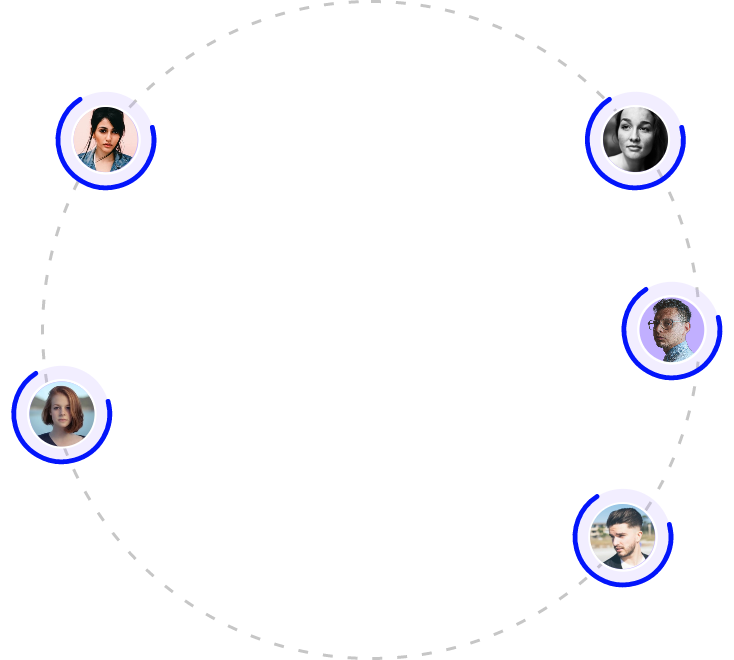
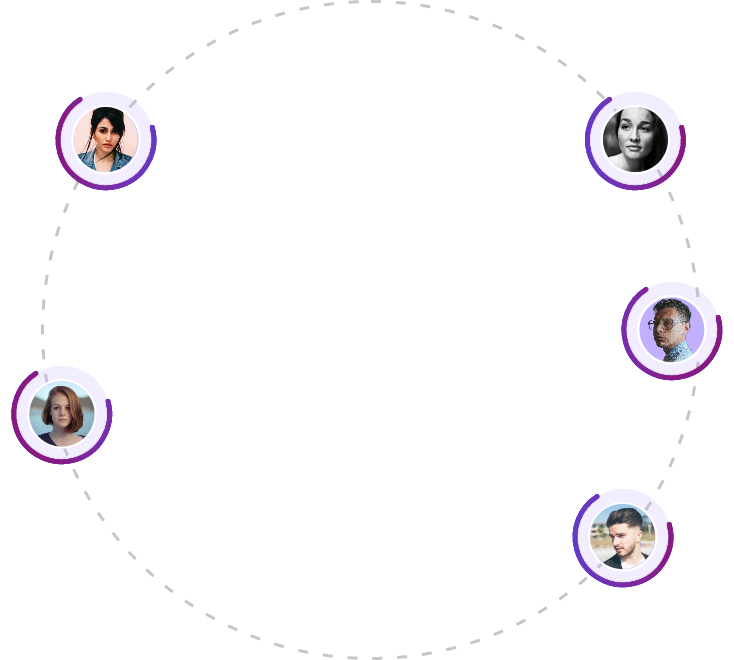
UI changes color

diff --git a/styles/css/style.css b/styles/css/style.css
@@ -13,8 +13,10 @@
   /*Colors*/
   --white-color: #ffffff;
   --black-color: #000000;
-  --color-one: #0000ff;
-  --color-two: #ffd128;
+  /* --color-one: #0000ff; */
+  --color-one: #881981;
+  /* --color-two: #ffd128; */
+  --color-two: #ed1c24;
   --color-light: #6f6f6f;
   /*RGB Colors*/
   --white-color-rgb: 255, 255, 255;
@@ -859,7 +861,7 @@ input[type="number"]::-webkit-inner-spin-button {
 
 .btn.btn-warning {
   border-color: var(--color-two);
-  color: var(--black-color);
+  color: var(--white-color);
   background-color: var(--color-two);
 }
 
@@ -1003,14 +1005,14 @@ input[type="number"]::-webkit-inner-spin-button {
 } */
 
 .header.style_two .btn.btn-outline-info {
-  border-color: var(--white-color);
-  color: var(--white-color);
+  border-color: var(--color-one);
+  color: var(--color-one);
 }
 
 .header.style_two .btn.btn-info {
-  border-color: var(--white-color);
-  color: var(--color-one);
-  background-color: var(--white-color);
+  border-color: var(--color-two);
+  color: var(--white-color);
+  background-color: var(--color-two);
 }
 
 .header.style_two .btn.btn-outline-info:hover,
@@ -3632,8 +3634,10 @@ abbr[title] {
 
 /*banner css 8th july */
 .banner-bg {
-  background-image: url(../../public/assets/images/bg.png),
-    linear-gradient(to right, #0315fb 0%, #c1afff 63%, #fff 102%);
+  /* background-image: url(../../public/assets/images/bg.png),
+    linear-gradient(to right, #0315fb 0%, #c1afff 63%, #fff 102%); */
+    background-image: url(../../public/assets/images/bg.png),
+    linear-gradient(to right, #ed1c24 0%, #00aeef 63%, #fff 102%);    
   background-size: cover;
   background-repeat: no-repeat;
   background-position: center;
@@ -3706,7 +3710,7 @@ abbr[title] {
 
 .search-job-w .search-btn {
   font-size: 14px;
-  color: var(--black-color);
+  color: var(--white-color);
   line-height: 24px;
   white-space: nowrap;
 }
@@ -3741,7 +3745,7 @@ abbr[title] {
   color: var(--black-color) !important;
 }
 
-.search-job-w .search-job-btn:hover .btn-right-arrow {
+.search-job-w .search-job-btn:hover .btn-right-arrow,.search-job-w .search-btn .btn-right-arrow img {
   filter: invert(1);
 }
 
@@ -3909,6 +3913,16 @@ abbr[title] {
   background-color: var(--white-color);
   color: var(--black-color);
   margin-bottom: 20px;
+  position: relative;
+  z-index: 9;
+}
+.section1:after {
+  content: url(/_next/static/media/swiper-bg-dots.9d82d824.png);
+  position: absolute;
+  left: 0;
+  top: -100px;
+  transform: rotate(-180deg);
+  z-index: -1;
 }
 
 .section1 .search-job-btn .search-btn {
@@ -3919,7 +3933,7 @@ abbr[title] {
   display: block;
 }
 
-.section1 .search-job-btn .search-btn:hover .btn-right-arrow {
+.section1 .search-job-btn .search-btn:hover .btn-right-arrow, .search-job-btn  .search-btn img{
   filter: invert(1);
 }
 
@@ -3950,7 +3964,13 @@ abbr[title] {
   justify-content: center;
   padding: 40px 20px 40px;
 }
+.section1 .applykart-features .features-card:hover p {
+  color: #fff;
+}
 
+.section1 .applykart-features .features-card:hover {
+  background: linear-gradient(to right, #ed1c24 0%, #00aeef 63%);
+}
 .section1 .applykart-features .col-lg-4 {
   margin-bottom: 60px;
 }
@@ -4376,7 +4396,7 @@ abbr[title] {
   display: flex;
   min-height: 682px;
   justify-content: center;
-  background-color: #0f00c0;
+  background-color: #0a0083; /*#0f00c0*/
   color: var(--white-color);
 }
 
@@ -4568,7 +4588,7 @@ abbr[title] {
 }
 
 /* btn  arrow */
-.advertising .ad-title .btn:hover .btn-right-arrow {
+.advertising .ad-title .btn:hover .btn-right-arrow,.advertising .ad-title .btn-right-arrow img {
   filter: invert(1);
 }
 
@@ -4682,7 +4702,7 @@ abbr[title] {
 .advertising .ad-round .circle-3,
 .advertising .ad-round .circle-4,
 .advertising .ad-round .circle-5 {
-  animation: scale 2s ease-in-out infinite;
+  animation: scale 3s ease-in-out infinite;
 }
 
 @keyframes scale {
@@ -4735,23 +4755,42 @@ abbr[title] {
 /* end */
 /* download app section */
 .download-app {
-  background-color: #0f00c0f2;
+  /*background-color: #0f00c0f2; */
+  background: linear-gradient(to right, #ed1c24 0%, #00aeef 63%, #fff 102%);
   padding: 64px 0;
   height: 696px;
-  margin-bottom: 180px;
+  margin-bottom: 0px; /*180px*/
 }
 
-.job-page-links {
+/* .job-page-links {
   background-color: #eae8e8;
   padding: 64px 0;
   height: 696px;
+  margin-bottom: 180px;
+} */
+.job-page-links{
+  background-color: #00113b;
+  padding: 64px 0;
+  height: 696px;
   /* margin-bottom: 180px; */
+  /* background-image: url(/_next/static/media/australia_map_bg.35b718e7.svg), url(/_next/static/media/footer_bg.e56d634b.png); */
+  background-position: 50% 50%;
+  background-repeat: no-repeat;
+  position: relative;
+  overflow: hidden;
 }
-
+.job-page-links:after {
+  content: url(/_next/static/media/swiper-bg-dots.9d82d824.png);
+  right: 120px;
+  position: absolute;
+  top: -120px;
+  transform: rotate(-90deg);
+}
 .flink li {
   padding: 6px 0;
   font-size: 12px;
 }
+.flink li a, .flink li a:hover{color: #fff;}
 
 .download-app .download-title p {
   font-size: 14px;
@@ -5048,10 +5087,11 @@ abbr[title] {
 
 /* -----------------swiper section-3---------------------- */
 .section-swiper {
-  background-image: linear-gradient(to right,
+  /* background-image: linear-gradient(to right,
       #0315fb 0%,
       #c1afff 63%,
-      #fff 102%);
+      #fff 102%); */
+  background-image: linear-gradient(to right, #ed1c24 0%, #00aeef 63%, #fff 102%);
   position: relative;
   padding: 40px 0;
   overflow: hidden;
@@ -5158,7 +5198,7 @@ abbr[title] {
 }
 
 .section-swiper .mySwiper2 .swiper-pagination-bullet .section-swiper .swiper-pagination .swiper-pagination-bullet-active {
-  background-color: #ffd128;
+  background-color: #ed1c24;
 }
 
 .section-swiper .swiper-pagination-bullet {
@@ -5182,7 +5222,7 @@ abbr[title] {
 }
 
 .section-swiper .mySwiper2 .swiper-pagination-bullet:first-child {
-  border-top: 6px solid #ffd128;
+  border-top: 6px solid #ed1c24;
   border-right: 6px solid transparent;
   border-bottom: 6px solid transparent;
   border-left: 6px solid transparent;
@@ -5190,7 +5230,7 @@ abbr[title] {
 
 .section-swiper .mySwiper2 .swiper-pagination-bullet:nth-child(2) {
   border-top: 6px solid transparent;
-  border-right: 6px solid #ffd128;
+  border-right: 6px solid #ed1c24;
   border-bottom: 6px solid transparent;
   border-left: 6px solid transparent;
 }
@@ -5198,7 +5238,7 @@ abbr[title] {
 .section-swiper .mySwiper2 .swiper-pagination-bullet:nth-child(3) {
   border-top: 6px solid transparent;
   border-right: 6px solid transparent;
-  border-bottom: 6px solid #ffd128;
+  border-bottom: 6px solid #ed1c24;
   border-left: 6px solid transparent;
 }
 
@@ -5206,11 +5246,11 @@ abbr[title] {
   border-top: 6px solid transparent;
   border-right: 6px solid transparent;
   border-bottom: 6px solid transparent;
-  border-left: 6px solid #ffd128;
+  border-left: 6px solid #ed1c24;
 }
 
 .section-swiper .mySwiper2 .swiper-pagination-bullet:nth-child(5) {
-  border-top: 6px solid #ffd128;
+  border-top: 6px solid #ed1c24;
   border-left: 6px solid transparent;
   border-right: 6px solid transparent;
   border-bottom: 6px solid transparent;
@@ -5218,7 +5258,7 @@ abbr[title] {
 
 .section-swiper .mySwiper2 .swiper-pagination-bullet:nth-child(6) {
   border-top: 6px solid transparent;
-  border-right: 6px solid #ffd128;
+  border-right: 6px solid #ed1c24; /*#ffd128 */
   border-left: 6px solid transparent;
   border-bottom: 6px solid transparent;
 }
@@ -5227,7 +5267,7 @@ abbr[title] {
   border-top: 6px solid transparent;
   border-right: 6px solid transparent;
   border-bottom: 6px solid transparent;
-  border-left: 6px solid #ffd128;
+  border-left: 6px solid #ed1c24;
 }
 
 .section-swiper .swiper-img-box {

diff --git a/src/components/homepage/jobPageLinks.js b/src/components/homepage/jobPageLinks.js
@@ -98,7 +98,7 @@ const JobPageLinks = () => {
               </div>
             </div> */}
             <div className="px-3 py-2 d-flex flex-column">
-              <div className="fs-6 fw-600 text-black">Jobs by Location:</div>
+              <h4 className="fs-6 fw-600 text-white">Jobs by Location:</h4>
               <div className="d-flex justify-content-between mt-3">
                 <div className="col-md-4">
                   <ul className="flink">
@@ -149,7 +149,7 @@ const JobPageLinks = () => {
             </div>
 
             <div className="px-3 py-2 d-flex flex-column">
-              <div className="fs-6 fw-600 text-black">Jobs by Category:</div>
+              <h4 className="fs-6 fw-600 text-white">Jobs by Category:</h4>
               <div className="d-flex justify-content-between mt-3">
                 <div className="col-md-4">
                   <ul className="flink">
